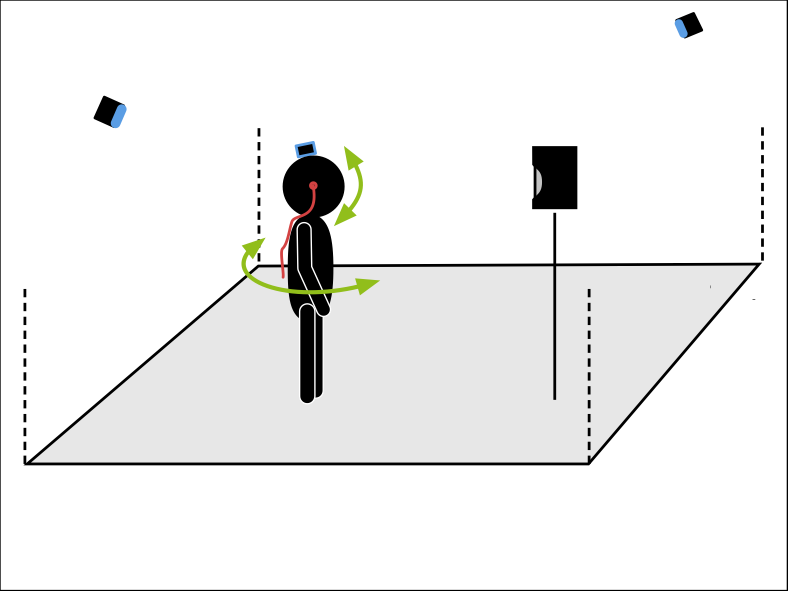
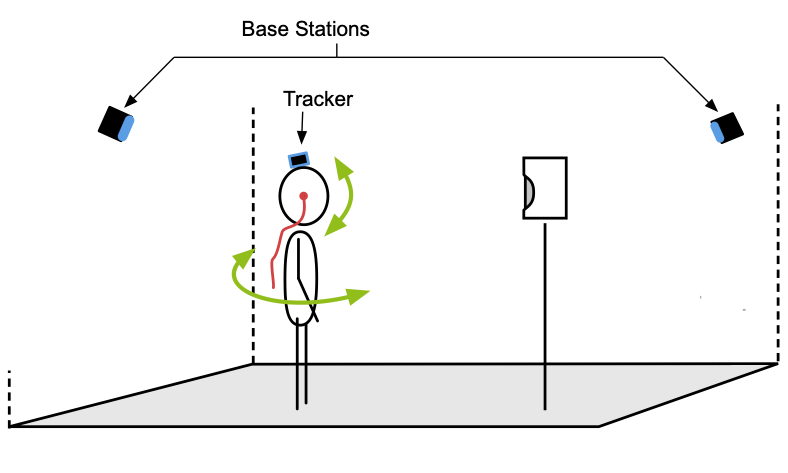
Updated readme

diff --git a/README.md b/README.md
@@ -2,53 +2,56 @@
 > __Current State Of Work__ (August 2021) 
 >  
 > - The project is still in a test phase. It works and provides good results, but needs further evaluation.
-> - The postprocessing and upsampling of the Head-Related Impulse Responses (HRIRs) is not part of the repository as this is currently topic of research ([research project](www.th-koeln.de/reskue)).
+> - The postprocessing and upsampling of the Head-Related Impulse Responses (HRIRs) is not part of the repository as this is currently topic of research ([research project](https://www.th-koeln.de/reskue)).
 > - We are still looking for a better project name...
 
-## Overview
+# Overview
 
-<img src="./resources/doc/overview_test.png" alt="Overview" width="400"/>
+<img src="./resources/doc/overview.png" alt="Overview" width="400"/>
 
-This project is a GUI-application for fast and easy Head-Related Transfer Function (HRTF) measurements in regular rooms with only few additional hardware components. The system is based on a stationary loudspeaker and the HTC Vive system for tracking head movements (no HMD, just two [Trackers](https://www.vive.com/us/accessory/vive-tracker/)). A user can first measure some HRTFs for any number of freely selectable directions. In a second step, he can be guided with the help of an algorithm that suggests additional measurement positions for more uniform spherical coverage.
+GuidedHRTFs is a GUI-application for fast and easy Head-Related Transfer Function (HRTF) measurements in regular rooms with only few additional hardware components. The system is based on a stationary loudspeaker and the HTC Vive system for tracking head movements (no HMD, just two [Trackers](https://www.vive.com/us/accessory/vive-tracker/)). A user can first measure some HRTFs for any number of freely selectable directions. In a second step, he can be guided with the help of an algorithm that suggests additional measurement positions for more uniform spherical coverage.
 
 > The system is not primarily intended for lay use at home. A certain amount of experience, or ambition, is required to set up the system.
 
 The measurement procedure is as follows:  
 
-1. Place a loudspeaker in the room, put in-ear microphones on, wire everything up
-2. Put a VIVE Tracker on the head and start SteamVR  
-3. Run the application and perform a quick calibration routine with a second VIVE Tracker
-4. (Beneficial: Perform a center Impulse Response (IR) measurement with a reference microphone)  
-5. Perform as many Head-Related Impulse Response (HRIR) measurements as you like by simply moving your head to the disired direction  
+
+1. Place a loudspeaker in the room, put in-ear microphones on, connect the audio hardware
+2. Mount a Vive Tracker on the head and start SteamVR  
+3. Run the application and perform a quick calibration routine with a second Vive Tracker
+4. (Optional: Perform a center impulse response measurement with a reference microphone)  
+5. Perform as many Head-Related Impulse Response (HRIR) measurements as desired by simply moving the head to the disired direction  
 6. After that, the system can suggest additional measurement positions to improve the spherical coverage of the dataset  
-7. (Beneficial: With the microphones still in the ears, perform headphone measurements for one or more headphones to obtain individual headphone transfer functions and compensation filters)  
+7. (Optional: With the microphones still in the ears, perform headphone measurements for one or more headphones to obtain individual headphone transfer functions and compensation filters)  
 
  <br>
  <br>
+ <br>
  
-## Additional Hardware
-### Measurement Equipment
+# Additional Hardware
+## Measurement Equipment
 Needless to say, a pair of in-ear microphones is required. We used [these DIY microphones](https://www.researchgate.net/publication/331988584_The_PIRATE_an_anthropometric_earPlug_with_exchangeable_microphones_for_Individual_Reliable_Acquisition_of_Transfer_functions_at_the_Ear_canal_entrance), but any available in-ear microphones should work.
 
-A good measurement loudspeaker with a sufficiently good magnitude and phase response should be available. In the best case, the loudspeaker should be rather small to approximate a point source.
+A good measurement loudspeaker should be available. Ideally, the loudspeaker should be rather small to approximate a point source.
 > The low frequency response of the loudspeaker is not that important, as we replace the low-frequency components of the HRTF below 200Hz by an appropriate low-frequency extension [[1](#references)].
 
-Furthermore, an audio interface for capturing the IRs is required. It should at least have two in and outputs. A third input/output is very helpful to have a feedback loop (directly connecting Out3 -> In3) so that the software can compensate any software or DA/AD-latency. Digitally controlled preamps provide a huge benefit for L/R level matching.
-### Tracking System
-The application is intended to be used with the HTC VIVE system. This tracking system is widely available, easy to use, moderately priced, and offers very accurate and fast tracking capabilites. Unlike many other VR/AR applications, neither the headset nor the contollers are needed, only two additionally available [Trackers](https://www.vive.com/de/accessory/vive-tracker/). 
+Furthermore, an audio interface for capturing the IRs is required. It should at least have two in and outputs. A third input/output is very helpful to have a feedback loop (directly connecting Out3 -> In3) so that the software can compensate any software or DA/AD-latency.
 
-The application handles the Trackers (SteamVR is needed nevertheless). After performing a simple calibration routine, very accurate relative angles between head and loudspeaker can be measured. 
 
-The application can also receive external tracking data via Open Sound Control (OSC), e.g., if another tracking system is used. In thic case, however, the external system must provide the relative angles between the user's head and the loudspeaker, as the OSC input only evaluates the values *Azimuth*, *Elevation* and *Radius*.
+## Tracking System
+The application is intended to be used with the HTC VIVE system. This tracking system is widely available, easy to use, moderately priced, and offers very accurate and fast tracking capabilites. Unlike in many other VR/AR applications, neither the headset nor the contollers are needed, only two additionally available [Trackers](https://www.vive.com/de/accessory/vive-tracker/). 
 
+The application can also receive external tracking data via Open Sound Control (OSC), e.g., if another tracking system is used. In this case, however, the external system must provide the relative angles between the user's head and the loudspeaker, as the OSC input only evaluates the values *Azimuth*, *Elevation* and *Radius*.
+
+ <br>
  <br>
  <br>
  
-## Install Notes:
-The application is coded in Python, so to run it you need Python with a set of external packages. We highly recommend using [conda](https://docs.conda.io/en/latest/) for this.
+# Install Notes:
+The application requires Python with some external dependencies. We recommend using [conda](https://docs.conda.io/en/latest/) for this:
 
 1. Install conda (Miniconda is sufficient) and download/clone this repository
-2. Open your terminal window (or anaconda prompt) and navigate to the repository folder (where the `environment.yml` and `main.py` files are located). To create a new Python environment with all necessary dependencies run  
+2. Open a terminal window (or anaconda prompt) and navigate to the repository folder (where the `environment.yml` and `main.py` files are located). To create a new Python environment with all necessary dependencies run  
     ```sh
     conda env create -f environment.yml
     ```
@@ -67,59 +70,106 @@ The application is coded in Python, so to run it you need Python with a set of e
  
  <br>
  <br>
- 
-## Quick Start
 
-### Before starting the application
+ ## Install SteamVR
+ In order to enable communication with the Vive system, [SteamVR](https://store.steampowered.com/app/250820/SteamVR/) has to be running in the background. SteamVR can be installed via Steam (user account required).
+  <br>
+ <br>
+ <br>
 
-- SteamVR needs to be running in the background with both trackers connected. 
+# Before starting the application
 
-  <img src="./resources/doc/steamvr_status.png" alt="Overview" width="400"/>
+SteamVR needs to be running in the background with both trackers connected
 
+  <img src="./resources/doc/steamvr_status.png" alt="Overview" width="300"/>
+ <br>
+ <br>
+ <br>
 
-### Configuration
+# Configuration
 <img src="./resources/doc/configure_window.png" alt="Overview" width="600"/>
+<br>
+<br>
 
-#### Configure Audio Hardware
-- In the _Audio Device Status_ panel, you can select your audio input and output device, the samplerate and a custom channel assignment. This comes handy in case you want the input channels 1&2 for the measurements, but maybe input/output channel 7 for the feedback loop.
+## Configure Audio Hardware
+- In the _Audio Device Status_ panel, you can select the audio input and output device, the samplerate and a custom channel assignment. This comes handy in case you want the input channels 1&2 for the measurements, but maybe input/output channel 7 for the feedback loop.
 - Channel Assignment:
-    - __Output Excitation__: During the measurements of HRIRs and the center measurement, this is the channel where the measurement speaker is connected. During the measurement of the HPFC, this is for the headphone´s left channel.
-    - __Output Excitation 2__: This channel is only used during the HPCF measurement, where it is for the headphone´s right channel.
-    - __Output Feedback Loop__: This channel has to be directly connected to the __Input Feedback Loop__ channel. The excitation signal is played back on this channel, effectively recording a "dry" measurement which can be used for compensating the latency from the audio software. Depending on your audio hardware, you can use a digital audio channel (e.g. ADAT or AES/EBU) for more precision.
-    - __Input Left Ear Mic__: Channel for the left in-ear microphone. During the center measurement, connect the measurement microphone to this channel.
-    - __Input Right Ear Mic__: Channel for the right in-ear microphone.
-    - __Input Feedback Loop__: See Output Feedback Loop.
-- Do not change the audio settings during a single measurement! If needed, you can change the channel configurations for HRIR, center and HPCF measurements, but do not change the samplerate once you started.
+    - __Output Excitation__: Output for measurement speaker or left channel during headphone measurement
+    - __Output Excitation 2__: Right channel for headphone measurement
+    - __Output Feedback Loop__: Mirrored output of the excitation signal
+    - __Input Left Ear Mic__: Input for left in-ear microphone or reference microphone during center measurement
+    - __Input Right Ear Mic__: Input for right in-ear microphone.
+    - __Input Feedback Loop__: Direct input for "dry" excitation signal from __Output Feedback Loop__
+- Don´t change the audio settings during a measurement. If needed, you can change the channel configurations for HRIR, center and HPCF measurements, but do not change the samplerate once you started.
 
-#### A) Calibration using Vive Trackers
+The image below shows audio routing examples for the three different measurement cases:
+<img src="./resources/doc/measurement_wiring.png" alt="Measurement Wiring" width="600"/>
+
+<br>
+<br>
+
+## Tracker Calibration
+### A) Calibration using Vive Trackers
+
+Two Vive Trackers are needed for the calibration. The acutal _head tracker_ and a _calibration tracker_. After the calibration, the _calibration tracker_ can be turned off.
+
+> By default, the application assigns the _head tracker_ role to the first tracker it detects, thus the first one that was connected to SteamVR. With the `Switch Tracker Roles` button, the roles of the _head tracker_ and _calibration tracker_ can be switched. Before the calibration, the correct role assignment can be easily verified by rotating the _calibration tracker_ while holding it and looking at the displayed angle. The rotation should not affect the angle (see _Background information_ below). 
+
+1. __Calibrate Speaker Position:__ Hold the _calibration tracker_ to the acoustical center of the speaker and press the `Calibrate Speaker` button in the GUI.
+
+2. __Calibrate Tracker Offset:__ With the _head tracker_ attached to the head, hold the _calibration tracker_ to each ear (the bottom center of the tracker to the ear canal) and press the corresponding calibration button (`Calibrate Left / Right Ear`).
+
+3. __Calibrate Tracker Rotation:__ Place the _calibration tracker_ on a planar surface (e.g. floor), pointing towards a desired view direction (LED on the tracker facing in opposite direction). Point the head into the same direction, so that the orientation of the _calibration tracker_ matches the orientation of the head, and press the `Calibrate Orientation` button. 
+
+The calibration steps can be repeated in any order, if necessary. If the _head tracker_ slips during the measurement, the calibration steps 2 & 3 should be repeated. In the same way, calibration step 1 should be repeated if the loudpseaker is moved during the measurement.
+
+<img src="./resources/doc/tracker_calibration_steps.png" alt="Tracker Calibration Steps" width="600"/>
+<br>
+<br>
 
 
-1. __Check Trackers:__ First, make sure the trackers are working correctly. When you move the trackers around, the virtual speaker position display should show the relative angle between the trackers. One tracker is the base tracker (for the head tracking) the other one represents the relative loudspeaker position. The relative loudspeakers orientation is not regarded. 
-   Accordingly, you can identify the tracker roles by rotating them. If the roles are reversed and you already attached the wrong tracker to the head, you can simply switch the roles by pressing the `Switch Tracker Roles` button.
-2. __Calibrate Listener Head:__ With the base tracker attached to the head, hold the second tracker to each ear (the bottom center of the tracker to the ear canal) and press the corresponding calibration button (`Calibrate Left / Right Ear`) in the GUI. This defines the approximated rotation center of the head between the ears.
-3. __Calibrate Speaker Position:__ Hold the tracker to the acoustical center of the speaker and press the `Calibrate Speaker` button in the GUI.
-4. __Calibrate Listener Orientation:__ Place the tracker on the floor somewhere between the speaker and the desired measurement position, pointing towards the desired view direction (LED on the tracker facing in opposite direction). Point your head exactly into the desired listening direction (look directly to the loudspeaker) and press the `Calibrate Orientation` button in the GUI. Be as accurate as possible during this step and make sure that the tracker is flat on the ground. 
+> Background information on the calibration: In the uncalibrated state, the displayed angle simply represents the spherical angle between the _head tracker_ as the origin of a spherical coordinate system and the _calibration tracker_ as a reference point in space, as shown in the picture below:
+>
+> <img src="./resources/doc/tracking_coordinates.png" alt="Measurement Wiring" width="220"/>
+>  
+>The calibration then "connects" the tracking to head center and loudspeaker:
+>
+> - While calibrating the speaker position in the first calibration step, the current position of the _calibration tracker_ is stored. From then on, this stored position is used for the reference point and the _calibration tracker_ only serves for calibration.  
+> - The other two calibration steps are due to the fact that the _head tracker_ does not represent the actual rotation center of the head.
+>   - In order to get the position of the head center, the positions of the ears relative to the _head tracker_ are stored. The head center is then approximated as the midpoint between the ears.
+>   - The third calibration steps compensates the rotational offset of the tracker as it can be placed arbitrarily on the head.
 
-The calibration steps can be repeated in any order, if necesary. After successfull calibration, the second tracker can be switched off.
+<br>
+<br>
+<br>
 
-#### B) Calibration using external tracking system (OSC)
-In case you are using another tracking system wich can communicate via OSC, you do not have to performa a calibration. The external tracking system has to take care of the calibration. The external system should supply __relative__ angles (azimuth, elevation, and radius) between the loudspeaker and the user's head, and __not__ the head orientation of the user. The bottom left panel _Vive Tracker Status_ becomes _OSC Input Status_ and will blink if OSC messages are received. 
+### B) Calibration using external tracking system (OSC)
+In case you are using another tracking system wich can communicate via OSC, you do not have to perform a calibration. The external tracking system has to take care of the calibration. The external system should supply the __relative__ angle (azimuth, elevation, and radius) between the loudspeaker and the user's head, and __not__ the head orientation of the user. The bottom left panel _Vive Tracker Status_ becomes _OSC Input Status_ and will blink if OSC messages are received. 
 
-### Performing Measurements
+<br>
+ <br>
+ <br>
+
+# Performing Measurements
+<br>
+ 
 <img src="./resources/doc/measurement_window.png" alt="Overview" width="600"/>
 
-> Before starting a measurement session, you should give the session a name so that the exported file can be identified later on. For every new session, the session name __must__ be changed, otherwise the previos session will be overwritten.
+> Before starting a measurement session, the session should be given a name so that the exported file can be identified later on. For every new session, the session name must be changed, otherwise the previos session will be overwritten.
 
-1. Perform a center measurement with a reference microphone. Place the microphone where the head center will be during the measurements and connect the microphone to the left input (Ch1) of your audio interface. 
-2. Place the in-ear microphones in the ear canals and connect them to the left / right input of your audio interface (Ch1/Ch2). Set adequate levels for the output and input of the audio interface (see [notes on measurement setup](resources/doc/measurement-setup-notes.md) for help)
-3. Perform measurements. It is best to activate the _Auto Measurement Mode_, where a measurement is triggered when the head is still for 2 seconds. During the measurement, keep your head still for the entire time (even after the sweep is finished) until you hear the sound for a successfull measurement. 
-   > A good starting point is to perform around 30 measurements for a full spherical coverage. This should take around 5 minutes.
-   
-   You can pause the automatic measurement at any time to have a look at the measurements already done in the `Data List` tab. There, you can also delete erroneous measurements. The source positions of the measurements will also be shown in the virtual speaker position display.
-3. After your inital measurements, you can ask the _Point Recommender_ for additional points. The recommended point will show up in the virtual speaker position display. By pressing `Start Guidance`, a spoken word guidance will tell you where to move your head (always assuming you are initally looking towards the speaker), followed by a guiding tone interval indicating how close you are to the desired view direction. It is a two step procedure, first guiding your head orientation on the horizontal plance, and then guiding your head orientation to the exact spot by tilting down, up, left, or right.  
+1. Perform a center measurement with a reference microphone. Place the microphone where the head center will be during the measurements and connect the microphone to the left input (Ch1) of the audio interface. 
+2. Place the in-ear microphones in the ear canals and connect them to the left / right input of the audio interface (Ch1/Ch2). Set adequate levels for the output and input of the audio interface
+3. Perform measurements. It is best to activate the _Auto Measurement Mode_, where a measurement is triggered when the head is still for 2 seconds. During the measurement, keep the head still for the entire time (even after the sweep is finished) until a sound for a successfull or a failed measurement signals the end of the measurement. 
+    > You can pause the automatic measurement at any time to have a look at the measurements already done in the `Data List` tab. There, you can also delete erroneous measurements. The source positions of the measurements will also be shown in the virtual speaker position display.
+    <br>
 
+    > A good starting point is to perform around 30 measurements for a full spherical coverage. This should take around 5 minutes.
+3. After the inital measurements, the _Point Recommender_ algorithm can suggest additional points. The recommended point will show up in the virtual speaker position display. By pressing `Start Guidance`, a spoken word guidance tells where to move the head (always assuming you are initally looking towards the speaker), followed by a guiding "ping" tone indicating the distance to desired view direction. It is a two step procedure, first guiding the head orientation on the horizontal plance, and then guiding the head orientation to the exact spot by tilting down, up, left, or right.  
 
-### Performing Headphone Measurements
+<br>
+ <br>
+
+# Performing Headphone Measurements
 
 A headphone compensation filter (HPCF) is required for accurate binaural reproduction using the acquired HRTFs. Measuring the individual HPCF directly after the individual HRTF measurements has the advantage of compensating for the in-ear microphones used and their possibly uneven placement in the ear canal.
 
@@ -127,20 +177,22 @@ In the application, it is possible to measure headphone impulse responses (HPIR)
 
 1. Set the name of the headphone
 2. Connect the headphones to the stereo output of the audio interface (Ch1/Ch2).
-3. Put on the headphones and try not to move the in-ear microphones. Set an adequate sweep level (be careful with your ears!)
+3. Put on the headphones while keeping the in-ear microphones from the HRTF measurement in place. 
 4. Perform about 10 to 15 headphone measurements. Put the headphones on and off between each measurement, resulting in slightly different positions of the headphones on the head for each measurement
 5. For measuring another pair of headphones, simply click `Clear/Start New`. The HPIRs have already been saved (see section _Output & Post Processing_) .
 
+
+The plots during the HPCF measurement (see picture below) show the magnitude responses of the HPIRs (left/right separated) and an estimation of the resulting HPCF filter based on [this](https://github.com/spatialaudio/hptf-compensation-filters)[2] approach. The estimated filter is not exported. 
+
 <img src="./resources/doc/hp_measurement.png" alt="Overview" width="300"/>
 
-In the plots above, you can see the magnitude responses of the HPIRs (left/right separated) and an estimated HPCF filter. The estimated filter is not exported. 
+> In our lab, we are mostly using [this](https://github.com/spatialaudio/hptf-compensation-filters) approach for generating HPCF filters, where a variable parameter _beta_ is used to regularize the inversion. Since this regularization parameter has to be set by hand, we considered it useful to include an estimation plot of the final HPCF (with variable _beta_) in the application. 
 
-> In our lab, we are mostly using [this](https://github.com/spatialaudio/hptf-compensation-filters) approach for generating HPCF filters, where a variable parameter _beta_ is used to regularize the inversion. Since this regularization parameter has to be set individually, we think it is useful to include an estimation plot of the final HPCF (with variable _beta_) in the application. 
-
+<br>
  <br>
  <br>
 
-## Data Export
+# Data Export
 The application has no export functionality. The measurement data is bundled after each single measurement as a Matlab file (.mat) and stored by default in the folder "Measurements" relative to the root folder of the Python-application (The export folder can be customized in the Configure-panel). Three different .mat files are stored: 
 
 * **HRIRs**: Impulse repsonses and raw recorded signals for each HRIR, together with the corresponding source positions of every HRIR in [Az(0...360°), El(90...-90°), R(m)]. Furthermore, metadata such as the used sampling rate, head-dimension and sweep parameters are stored. The filename consists of `"measured_points_{session name}_{current date}.mat`.
@@ -154,6 +206,8 @@ The measurement system provides deconvolved HRIRs without further post-processin
 <br>
 <br>
 
-## References
+# References
 
 [1] Bernschütz, B. (2013). A Spherical Far Field HRIR/HRTF Compilation of the Neumann KU 100. Fortschritte Der Akustik -- AIA-DAGA 2013, 592--595. http://www.audiogroup.web.fh-koeln.de/FILES/AIA-DAGA2013_HRIRs.pdf
+
+[2] Schärer, Z. and Lindau, A. (2009): Evaluation of Equalization Methods for Binaural Synthesis. Proc. of the 126th AES Convention
